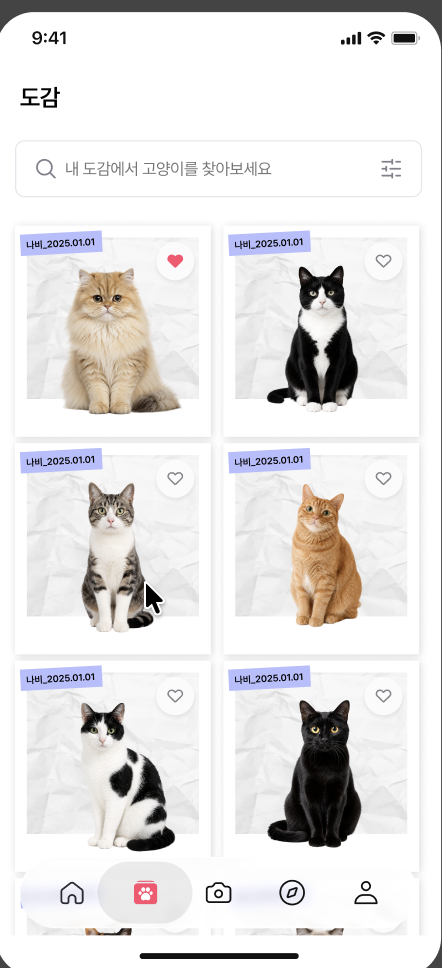
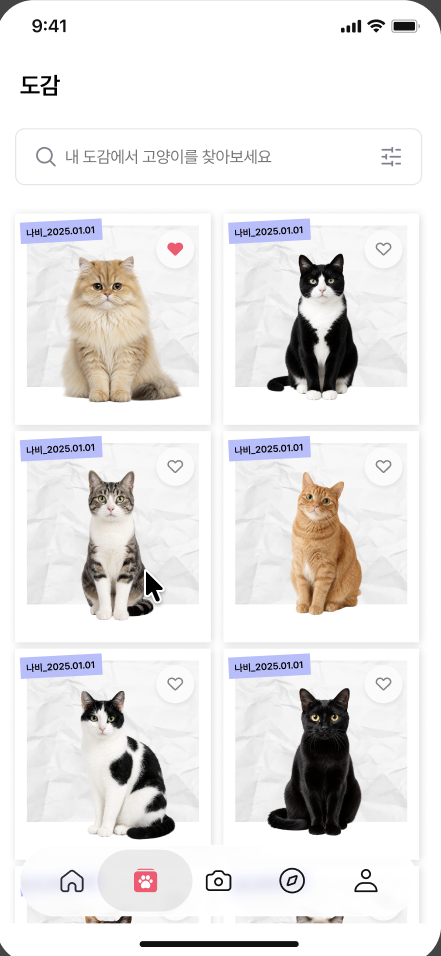
fix: 앱 목업 프레임을 하나로 통일
세 스크린샷에 기기 프레임 잔여물이 서로 다른 변에 남아 있어(홈 좌1·상4px,
도감 우1·상12px, 등록 우2·상3·하1px) 같은 폰으로 보이지 않았습니다.
잔여 베젤을 잘라내고, 사이트 쪽에서 동일한 프레임(라운드 34px + 흰 테두리)과
고정 비율을 적용해 세 컷의 외곽 크기를 정확히 맞췄습니다.

diff --git a/docs/index.html b/docs/index.html
@@ -293,7 +293,10 @@
 
       .story-media img {
         width: min(270px, 70vw);
-        border-radius: 28px;
+        aspect-ratio: 393 / 850;
+        object-fit: cover;
+        object-position: top center;
+        border-radius: 34px;
         box-shadow: 0 24px 60px rgba(63, 46, 36, 0.16);
         border: 6px solid #fff;
         outline: 1px solid #f0e9e2;
